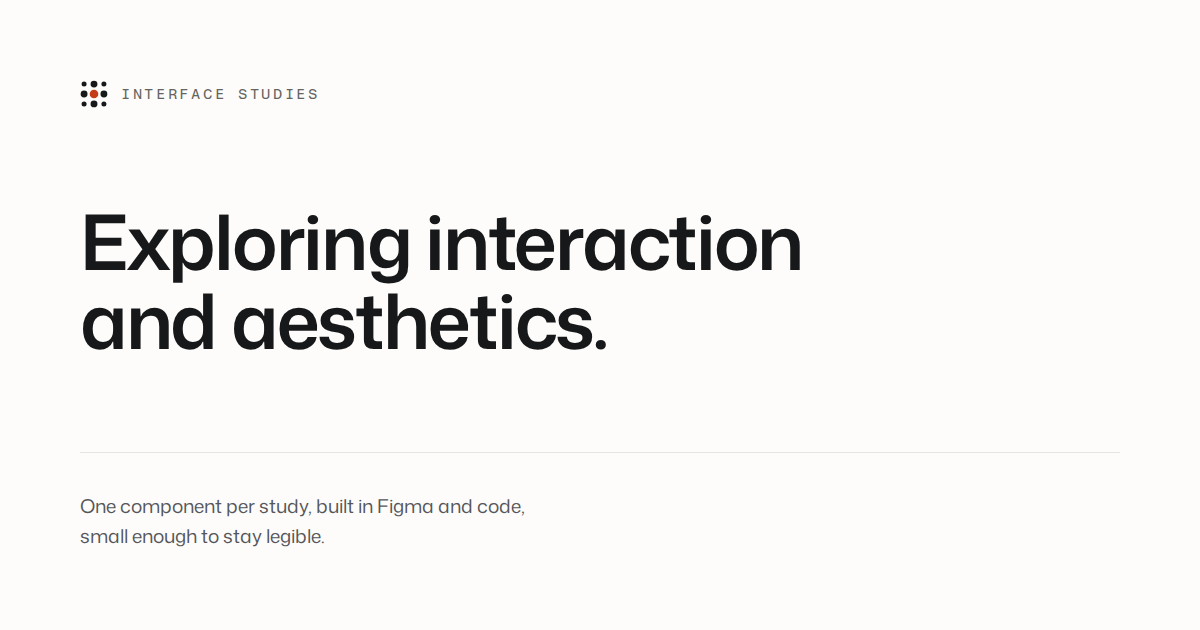
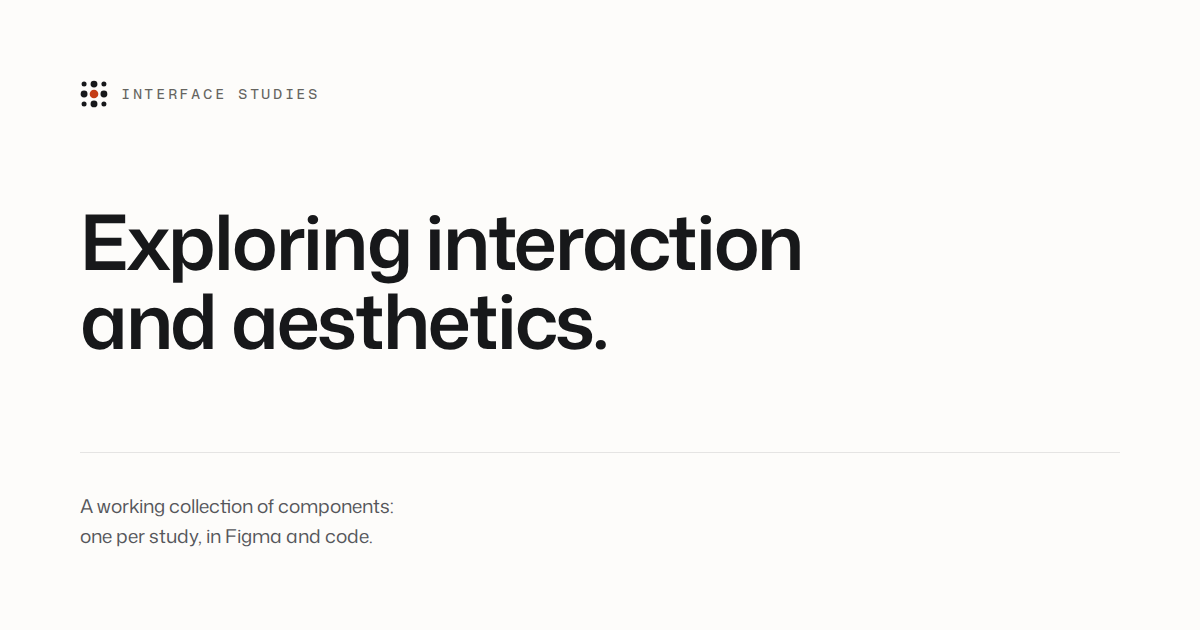
The masthead calls the site a working collection of components

Changed region(s): [[0.0617, 0.7841, 0.4317, 0.8143], [0.0617, 0.8444, 0.3083, 0.8746]]

diff --git a/index.html b/index.html
@@ -6,7 +6,7 @@
     <title>Interface Studies</title>
     <meta
       name="description"
-      content="Exploring interaction and aesthetics. One component per study, built in Figma and code, small enough to stay legible." />
+      content="Exploring interaction and aesthetics. A working collection of components: one per study, in Figma and code." />
 
     <link rel="preconnect" href="https://fonts.googleapis.com" />
     <link rel="preconnect" href="https://fonts.gstatic.com" crossorigin />
@@ -36,7 +36,7 @@
       content="Interface Studies — exploring interaction and aesthetics" />
     <meta
       property="og:description"
-      content="One component per study, built in Figma and code, small enough to stay legible. Open one to see it in full." />
+      content="A working collection of components: one per study, in Figma and code. Open one to see it in full." />
     <meta property="og:image" content="https://interface-studies.pages.dev/og.png" />
     <meta property="og:image:width" content="1200" />
     <meta property="og:image:height" content="630" />
@@ -196,8 +196,8 @@
          every reader to them. -->
       <p class="head__lede" data-reveal>
         <span data-i18n="head.lede">
-          One component per study, built in Figma and code, small enough to
-          stay legible.
+          A working collection of components: one per study, in Figma and
+          code.
         </span>
         <span data-lede-hint>
           Hover a card to run it in place, take a quick look at its variants,

diff --git a/index.js b/index.js
@@ -71,8 +71,8 @@ function withParam(src, key, value) {
       // hyphenation dictionary, which is what `hyphens: auto` would be
       // waiting on.
       'head.title': 'Udforskning af interaktion og æstetik.',
-      'head.lede': 'Én komponent pr. studie, bygget i Figma og kode, så lille, '
-        + 'at den er til at gennemskue.',
+      'head.lede': 'En løbende samling af komponenter: én pr. studie, i Figma '
+        + 'og kode.',
       'head.ledeHint': 'Hold musen over et kort for at afspille det, tag et '
         + 'hurtigt kig på dets varianter, eller åbn studiet for at se det '
         + 'i sin helhed.',

diff --git a/og.html b/og.html
@@ -188,8 +188,8 @@
          read at a glance, and every unfurl prints the domain under it
          already. -->
       <p class="lede">
-        One component per study, built in Figma and code,<br />
-        small enough to stay legible.
+        A working collection of components:<br />
+        one per study, in Figma and code.
       </p>
     </div>
   </body>

diff --git a/CLAUDE.md b/CLAUDE.md
@@ -1436,7 +1436,7 @@ do not move instead, Exploring, Stack and Each study, and not moving was all
 they had going for them: one repeated the headline, one only made sense to
 someone who had read these rules, and the stack stopped being the whole story
 once studies began getting React adapters. So below the rule is the lede and
-nothing else, broken by hand at its comma, since a fixed-size image has no
+nothing else, broken by hand at its colon, since a fixed-size image has no
 width to reflow into. The domain is not on it either: every unfurl prints it
 under the card already.
 

diff --git a/PRODUCT.md b/PRODUCT.md
@@ -20,7 +20,7 @@ Two readers in equal measure, and neither outranks the other.
 
 ## Product Purpose
 
-A working collection of interface components, made by hand and returned to:
+A working collection of interface components, returned to and reworked:
 one component per study, built in Figma and code, each folder standing on its
 own. The collection is never finished; a study is reworked when there is
 something better to do with it, and the set grows a study at a time.

diff --git a/README.md b/README.md
@@ -1,7 +1,7 @@
 # Interface studies
 
-Exploring interaction and aesthetics. One component per study, built in Figma
-and code, small enough to stay legible.
+Exploring interaction and aesthetics. A working collection of components: one
+per study, in Figma and code.
 
 Browse it at [interface-studies.pages.dev](https://interface-studies.pages.dev),
 or open `index.html` locally; each card opens that folder's `demo.html`. The
